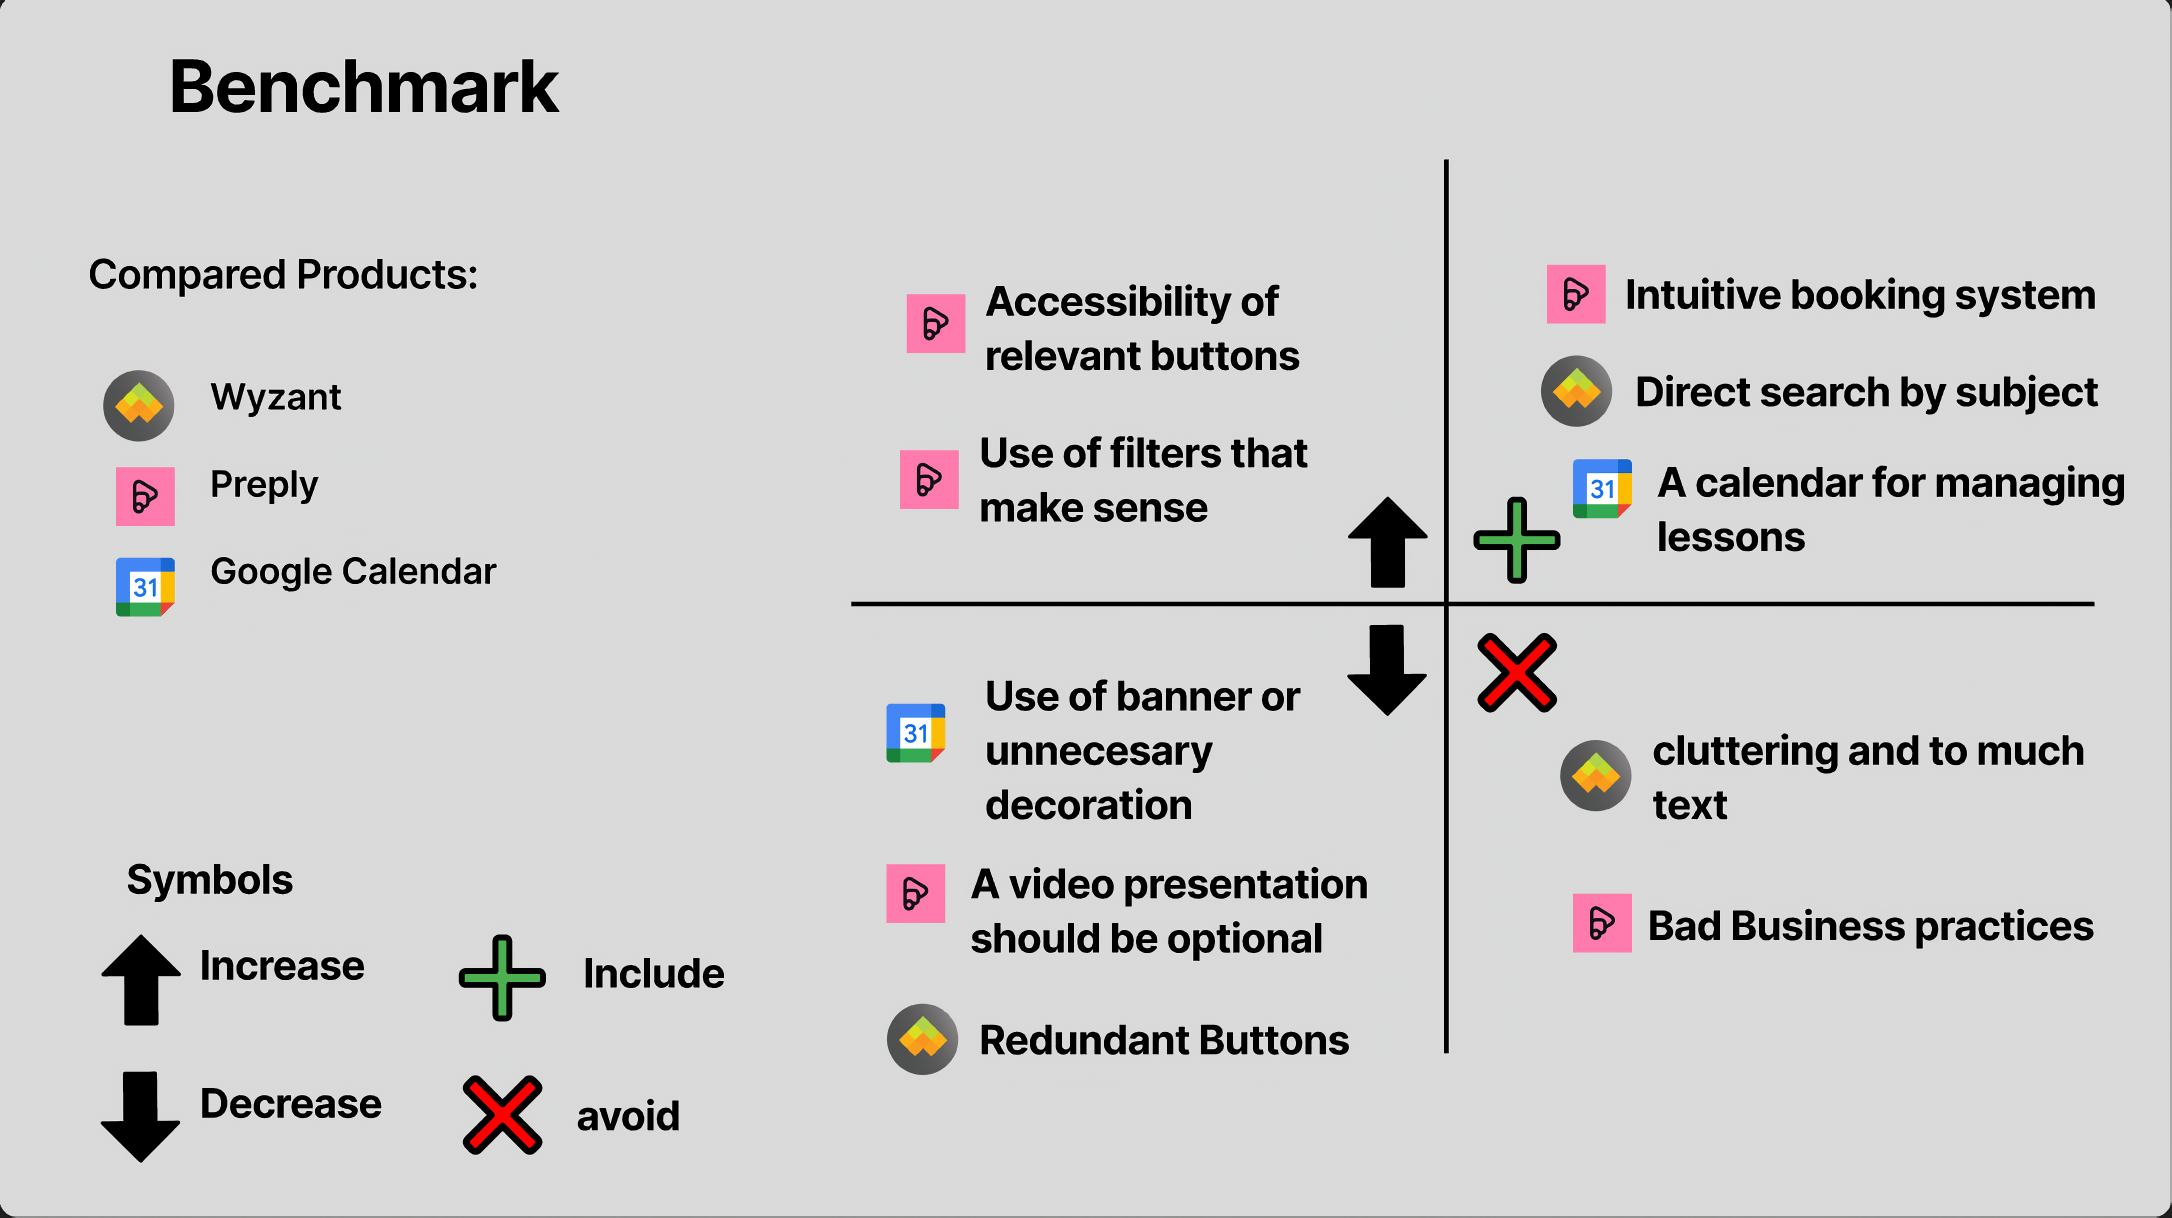
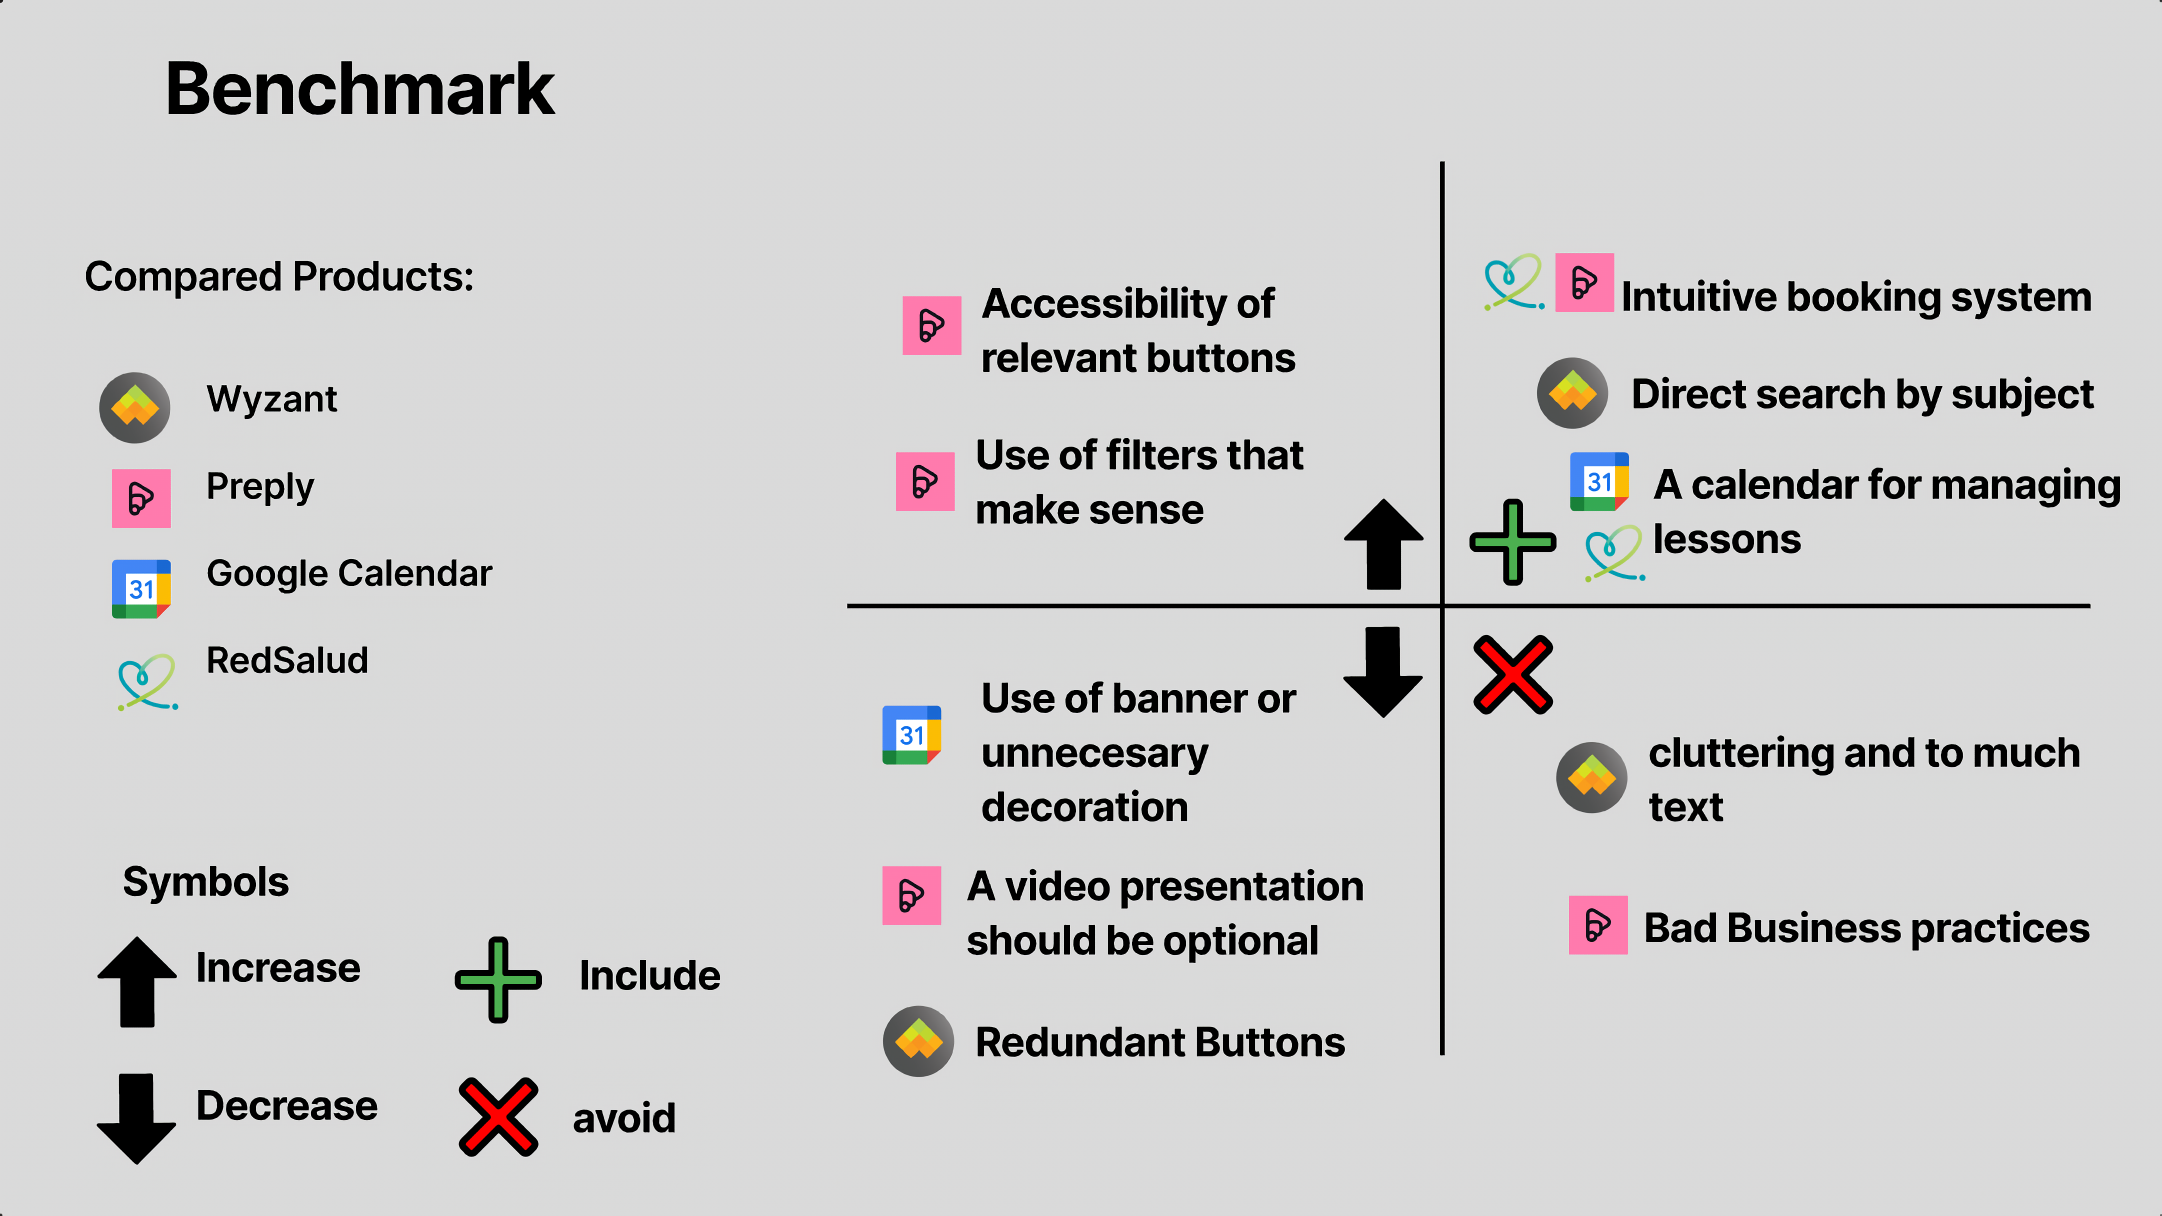
modify reference of app from benchmark

diff --git a/README.md b/README.md
@@ -91,7 +91,7 @@ Three user archetypes were defined to capture the full range of needs within the
 
 In order to obtain a better visual reference on the design of our product compared to existing applications in this market sector, an informative benchmark was carried out to identify key functionalities and characteristics that could be integrated into our development.
 
-For the benchmark presented below, four applications related to tutoring, scheduling and academic support were considered: **Wyzant**, **Preply**, **RedSalud**, and **AgendaPro**. Aspects such as visual design, information display, accessibility, ease of scheduling, and search functionality were analyzed.
+For the benchmark presented below, four applications related to tutoring, scheduling and academic support were considered: **Wyzant**, **Preply**, **RedSalud**, and **Google Calendar**. Aspects such as visual design, information display, accessibility, ease of scheduling, and search functionality were analyzed.
 
 <img width="1920" height="1080" alt="Benchmark" src="assets/images/benchmark.png" />
 